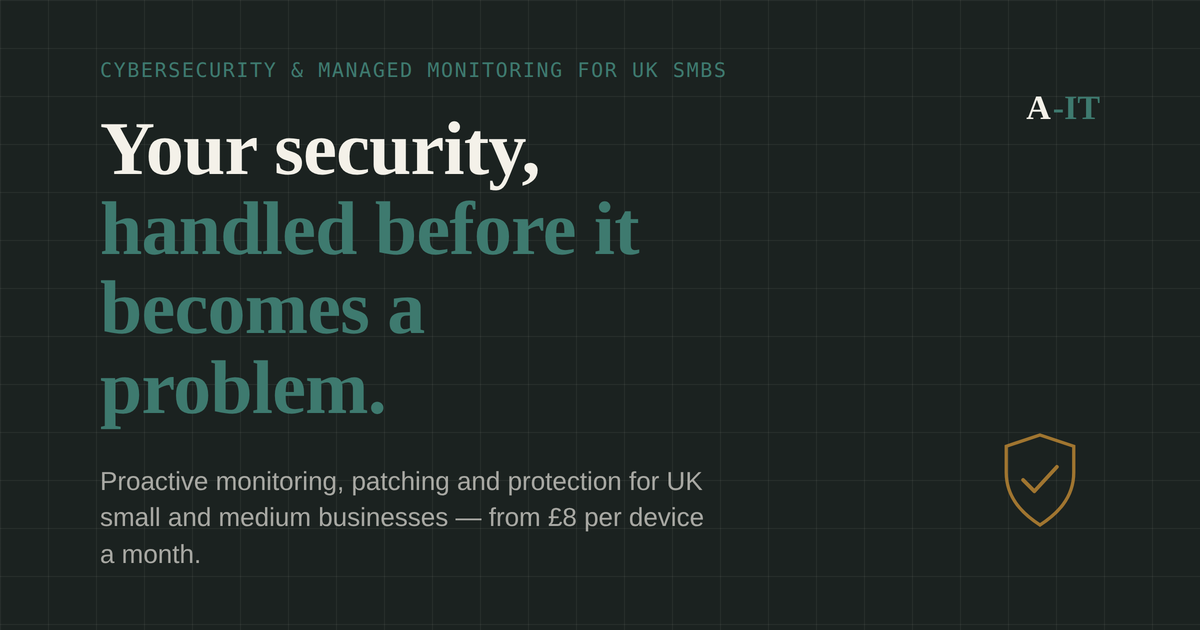
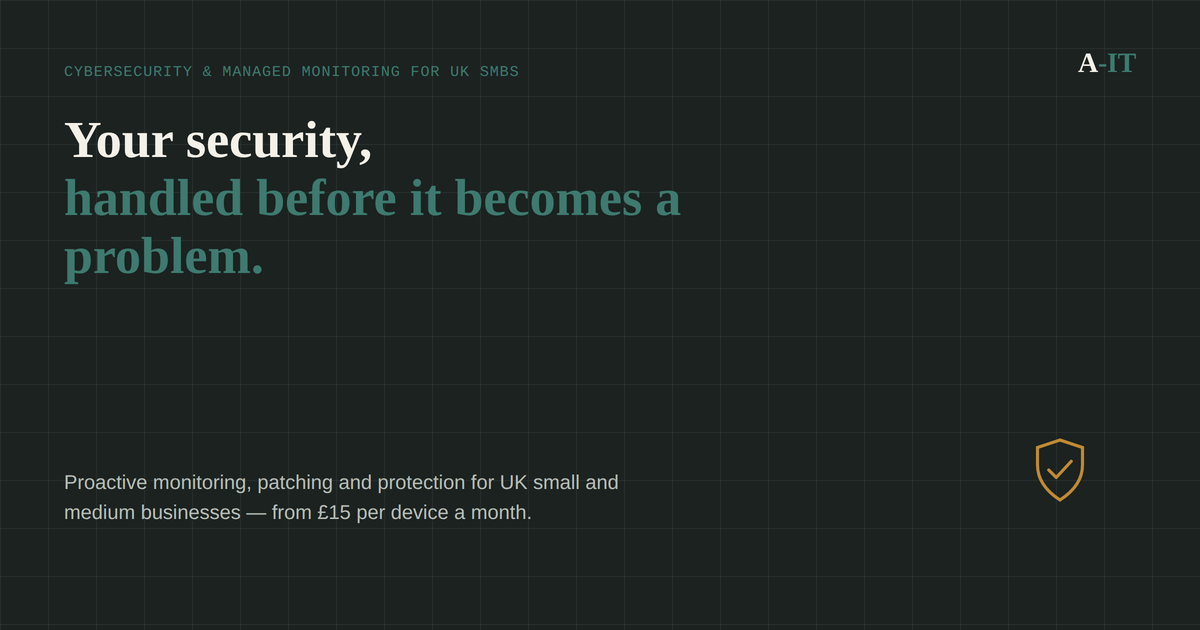
Retire Bronze, promote Gold to most-chosen, add Platinum tier
Structural pricing change:
- Removed Bronze entirely (its included features are now listed
  directly under Silver instead of via an "everything in Bronze"
  reference)
- Silver and Gold keep their existing price and feature set,
  unchanged
- Gold is now the recommended/"most chosen" tier instead of Silver
- Added Platinum (£25/device/month): everything in Gold, plus
  detailed monthly security reporting, phishing simulation and cyber
  awareness training, and priority security escalation

Since Bronze was the only tier without 24/7 monitoring, "24/7 on
Silver & Gold" language across Home/Services/meta tags is now "on
every plan" - there's no tier left without it. Rewrote the "not sure
which tier fits" guidance on the Pricing page to match Gold being
the default recommendation. PricingTable's column rendering is now
driven dynamically by TIERS/tier.recommended instead of hardcoded
bronze/silver/gold columns, so it no longer breaks when the tier
lineup changes. Regenerated the OG social preview image (previously
showed "£8 per device", now "£15") and fixed the same stale
Bronze/£8 copy baked into index.html's static meta tags for social
crawlers.

Claude-Session: https://claude.ai/code/session_01EaLkMhpdtrWRbBnCPcVyhp

diff --git a/src/lib/pricing.js b/src/lib/pricing.js
@@ -1,26 +1,14 @@
 export const TIERS = [
   {
-    id: 'bronze',
-    name: 'Bronze',
-    price: 8,
-    tagline: 'Core security hygiene, monitored during business hours.',
-    recommended: false,
-    features: [
-      'Device monitoring and alerting, business hours (Mon–Fri)',
-      'Security patching for Windows, macOS and common apps',
-      'Antivirus and endpoint protection, centrally managed',
-      'IT asset and licence inventory',
-      'Monthly patch and security report',
-    ],
-  },
-  {
     id: 'silver',
     name: 'Silver',
     price: 15,
-    tagline: '24/7 monitoring and management, not just office hours.',
-    recommended: true,
+    tagline: '24/7 monitoring and management, around the clock.',
+    recommended: false,
     features: [
-      'Everything in Bronze',
+      'Security patching for Windows, macOS and common apps',
+      'Antivirus and endpoint protection, centrally managed',
+      'IT asset and licence inventory',
       '24/7 monitored device management',
       '24/7 monitored cybersecurity (SOC-backed threat detection)',
       'Advanced endpoint detection and response (EDR)',
@@ -35,7 +23,7 @@ export const TIERS = [
     name: 'Gold',
     price: 18,
     tagline: 'Full cybersecurity cover, watched around the clock.',
-    recommended: false,
+    recommended: true,
     features: [
       'Everything in Silver',
       'Microsoft 365 / Google Workspace protection and backup',
@@ -44,43 +32,63 @@ export const TIERS = [
       'Annual cybersecurity posture assessment',
     ],
   },
+  {
+    id: 'platinum',
+    name: 'Platinum',
+    price: 25,
+    tagline: 'Everything in Gold, plus proactive awareness and escalation.',
+    recommended: false,
+    features: [
+      'Everything in Gold',
+      'Detailed security reporting every month',
+      'Phishing simulation and cyber awareness training',
+      'Priority security escalation',
+    ],
+  },
 ]
 
 export const FEATURE_GROUPS = [
   {
     group: 'Security fundamentals',
     rows: [
-      { label: 'Antivirus and endpoint protection', bronze: true, silver: true, gold: true },
-      { label: 'Security patch management', bronze: true, silver: true, gold: true },
-      { label: 'IT asset and licence inventory', bronze: true, silver: true, gold: true },
+      { label: 'Antivirus and endpoint protection', silver: true, gold: true, platinum: true },
+      { label: 'Security patch management', silver: true, gold: true, platinum: true },
+      { label: 'IT asset and licence inventory', silver: true, gold: true, platinum: true },
     ],
   },
   {
     group: 'Monitoring & management',
     rows: [
-      { label: 'Device monitoring and alerting, business hours', bronze: true, silver: true, gold: true },
-      { label: '24/7 monitored device management', bronze: false, silver: true, gold: true },
-      { label: 'Extended monitoring — servers, switches, Wi-Fi', bronze: false, silver: true, gold: true },
-      { label: 'Out-of-hours alerting for critical failures', bronze: false, silver: true, gold: true },
-      { label: 'Monthly patch and security report', bronze: true, silver: true, gold: true },
-      { label: 'Expanded reporting pack (device health, alerts)', bronze: false, silver: true, gold: true },
+      { label: '24/7 monitored device management', silver: true, gold: true, platinum: true },
+      { label: 'Extended monitoring — servers, switches, Wi-Fi', silver: true, gold: true, platinum: true },
+      { label: 'Out-of-hours alerting for critical failures', silver: true, gold: true, platinum: true },
+      { label: 'Monthly patch and security report', silver: true, gold: true, platinum: true },
+      { label: 'Expanded reporting pack (device health, alerts)', silver: true, gold: true, platinum: true },
     ],
   },
   {
     group: 'Cybersecurity',
     rows: [
-      { label: '24/7 monitored cybersecurity (SOC-backed)', bronze: false, silver: true, gold: true },
-      { label: 'Advanced endpoint detection and response (EDR)', bronze: false, silver: true, gold: true },
-      { label: 'Microsoft 365 / Google Workspace protection and backup', bronze: false, silver: false, gold: true },
-      { label: 'Annual cybersecurity posture assessment', bronze: false, silver: false, gold: true },
+      { label: '24/7 monitored cybersecurity (SOC-backed)', silver: true, gold: true, platinum: true },
+      { label: 'Advanced endpoint detection and response (EDR)', silver: true, gold: true, platinum: true },
+      { label: 'Microsoft 365 / Google Workspace protection and backup', silver: false, gold: true, platinum: true },
+      { label: 'Annual cybersecurity posture assessment', silver: false, gold: true, platinum: true },
     ],
   },
   {
     group: 'Backup & strategy',
     rows: [
-      { label: 'Monthly backup verification checks', bronze: false, silver: true, gold: true },
-      { label: 'Priority incident response', bronze: false, silver: false, gold: true, note: '[PLACEHOLDER: exact response-time commitment]' },
-      { label: 'Quarterly strategic security review', bronze: false, silver: false, gold: true },
+      { label: 'Monthly backup verification checks', silver: true, gold: true, platinum: true },
+      { label: 'Priority incident response', silver: false, gold: true, platinum: true, note: '[PLACEHOLDER: exact response-time commitment]' },
+      { label: 'Quarterly strategic security review', silver: false, gold: true, platinum: true },
+    ],
+  },
+  {
+    group: 'Security awareness & reporting',
+    rows: [
+      { label: 'Detailed security reporting every month', silver: false, gold: false, platinum: true },
+      { label: 'Phishing simulation and cyber awareness training', silver: false, gold: false, platinum: true },
+      { label: 'Priority security escalation', silver: false, gold: false, platinum: true },
     ],
   },
 ]

diff --git a/src/pages/Services.jsx b/src/pages/Services.jsx
@@ -67,19 +67,19 @@ const SECTIONS = [
       'Managed endpoint protection and patching across Windows, macOS and common third-party apps',
       'Email security — phishing and spoofing filtering, with SPF, DKIM and DMARC configured properly',
       'Multi-factor authentication rolled out across email, cloud storage and other key systems',
-      '24/7 monitored threat detection and endpoint detection & response (EDR), with a named response plan, not just an alert nobody reads (Silver & Gold)',
+      '24/7 monitored threat detection and endpoint detection & response (EDR), with a named response plan, not just an alert nobody reads',
     ],
   },
   {
     id: 'monitoring',
     icon: IconRadar,
     eyebrow: '02 — Monitoring & management',
-    title: 'Round-the-clock on Silver and Gold. Never guesswork.',
-    lead: 'A dying hard drive, a failed backup job, a server quietly running out of disk space — the failures that cause real downtime almost always give warning first. Bronze covers monitoring during business hours; Silver and Gold watch around the clock.',
+    title: 'Round-the-clock on every plan. Never guesswork.',
+    lead: 'A dying hard drive, a failed backup job, a server quietly running out of disk space — the failures that cause real downtime almost always give warning first. Every plan watches around the clock, not just business hours.',
     points: [
-      'Devices, servers, switches and Wi-Fi access points monitored 24/7 on Silver and Gold, business hours on Bronze',
+      'Devices, servers, switches and Wi-Fi access points monitored 24/7',
       'Thresholds tuned to catch real problems early — failing disks, memory pressure, unusual login activity',
-      'Out-of-hours alerting that reaches a person, with escalation if the first alert isn’t acknowledged (Silver & Gold)',
+      'Out-of-hours alerting that reaches a person, with escalation if the first alert isn’t acknowledged',
       'Monthly reporting so you can see device health and patch status without having to ask',
     ],
   },
@@ -88,11 +88,11 @@ const SECTIONS = [
     icon: IconCloud,
     eyebrow: '03 — Cloud & backup',
     title: 'Backups that are proven to work, not just scheduled.',
-    lead: 'A backup you’ve never tested is a guess. Silver and Gold verify your backups are actually working, not just scheduled — and on Gold we go further, protecting and backing up your Microsoft 365 or Google Workspace data directly, not just checking someone else’s backup exists.',
+    lead: 'A backup you’ve never tested is a guess. Every plan verifies your backups are actually working, not just scheduled — and on Gold and Platinum we go further, protecting and backing up your Microsoft 365 or Google Workspace data directly, not just checking someone else’s backup exists.',
     points: [
       'Microsoft 365 or Google Workspace administration — mailboxes, licensing, shared drives, conditional access',
-      'Microsoft 365 / Google Workspace data protection and backup, so a deleted mailbox or file isn’t gone for good (Gold)',
-      'Backup verification for servers and endpoints, with scheduled test restores logged and reported (Silver & Gold)',
+      'Microsoft 365 / Google Workspace data protection and backup, so a deleted mailbox or file isn’t gone for good (Gold & Platinum)',
+      'Backup verification for servers and endpoints, with scheduled test restores logged and reported',
       'A written recovery plan for what happens if a device, account or server is lost or compromised',
     ],
   },
@@ -114,7 +114,7 @@ export default function Services() {
           </h1>
           <p className="mt-5 max-w-[58ch] text-lg leading-relaxed text-ink/75">
             Three areas, all included across our tiers to different depths —
-            see the <Link className="link-underline text-petrol" to="/pricing">pricing comparison</Link> for exactly what's in Bronze, Silver and Gold.
+            see the <Link className="link-underline text-petrol" to="/pricing">pricing comparison</Link> for exactly what's in Silver, Gold and Platinum.
           </p>
         </div>
       </section>
@@ -177,8 +177,8 @@ export default function Services() {
               </h2>
               <p className="mt-3 max-w-[62ch] text-ink/75">
                 We're a security-first provider, not a helpdesk by default —
-                general day-to-day IT support isn't included in Bronze,
-                Silver or Gold. Two ways to add it: pay-as-you-go break-fix
+                general day-to-day IT support isn't included in Silver,
+                Gold or Platinum. Two ways to add it: pay-as-you-go break-fix
                 callouts from £60/hour, or Premium SLA ticket support from
                 £10 per device a month (Mon–Fri, 8am–5pm), on top of any
                 tier.

diff --git a/src/pages/Home.jsx b/src/pages/Home.jsx
@@ -6,7 +6,7 @@ import { Link } from 'react-router-dom'
 const TRUST_SIGNALS = [
   { label: 'UK-based security team', detail: 'No outsourced SOC' },
   { label: 'Fixed price per device', detail: 'One line on the invoice' },
-  { label: '24/7 monitoring on Silver & Gold', detail: 'Not just business hours' },
+  { label: '24/7 monitoring on every plan', detail: 'Not just business hours' },
   { label: 'Fast onboarding', detail: '1–10 working days to full coverage' },
 ]
 
@@ -20,13 +20,13 @@ const SERVICES = [
   {
     n: '02',
     title: 'Monitoring & management',
-    body: 'Devices, servers and network kit watched around the clock on Silver and Gold, with alerts that reach a person before your team notices anything wrong.',
+    body: 'Devices, servers and network kit watched around the clock on every plan, with alerts that reach a person before your team notices anything wrong.',
     to: '/services#monitoring',
   },
   {
     n: '03',
     title: 'Cloud & backup',
-    body: 'Backup verification on Silver and Gold, plus Microsoft 365 or Google Workspace data protection and backup on Gold — so a lost laptop or deleted mailbox isn’t a lost business.',
+    body: 'Backup verification on every plan, plus Microsoft 365 or Google Workspace data protection and backup on Gold and Platinum — so a lost laptop or deleted mailbox isn’t a lost business.',
     to: '/services#cloud-backup',
   },
 ]
@@ -34,7 +34,7 @@ const SERVICES = [
 export default function Home() {
   return (
     <>
-      <Seo description="A-IT is a UK managed cybersecurity and monitoring provider for small and medium businesses. Proactive protection, patching and 24/7 monitoring on Silver and Gold, from £8 per device per month." />
+      <Seo description="A-IT is a UK managed cybersecurity and monitoring provider for small and medium businesses. Proactive protection, patching and 24/7 monitoring on every plan, from £15 per device per month." />
 
       {/* Hero — asymmetric, off-center split */}
       <section className="relative overflow-hidden border-b border-stone bg-paper-dim">
@@ -69,7 +69,7 @@ export default function Home() {
               </div>
               <ol className="divide-y divide-paper/10">
                 {[
-                  ['01', 'Monitor', 'Devices and email watched continuously — 24/7 on Silver and Gold'],
+                  ['01', 'Monitor', 'Devices and email watched continuously — 24/7 on every plan'],
                   ['02', 'Detect', 'Alerts triaged the moment something looks wrong, day or night'],
                   ['03', 'Respond', 'A named engineer acts on confirmed threats, not just flags them'],
                   ['04', 'Report', 'A plain-English summary of what happened and what changed'],

diff --git a/index.html b/index.html
@@ -7,7 +7,7 @@
     <title>A-IT — Managed Cybersecurity &amp; Monitoring for UK Businesses</title>
     <meta
       name="description"
-      content="A-IT is a UK managed cybersecurity and monitoring provider for small and medium businesses. Proactive protection, patching and 24/7 monitoring on Silver and Gold, from £8 per device per month."
+      content="A-IT is a UK managed cybersecurity and monitoring provider for small and medium businesses. Proactive protection, patching and 24/7 monitoring on every plan, from £15 per device per month."
     />
 
     <!-- PLACEHOLDER: replace a-it.example with the real domain once live,
@@ -28,7 +28,7 @@
     <meta property="og:title" content="A-IT — Managed Cybersecurity &amp; Monitoring for UK Businesses" />
     <meta
       property="og:description"
-      content="A-IT is a UK managed cybersecurity and monitoring provider for small and medium businesses. Proactive protection, patching and 24/7 monitoring on Silver and Gold, from £8 per device per month."
+      content="A-IT is a UK managed cybersecurity and monitoring provider for small and medium businesses. Proactive protection, patching and 24/7 monitoring on every plan, from £15 per device per month."
     />
     <meta property="og:image" content="https://a-it.example/og-image.png" />
     <meta property="og:image:width" content="1200" />
@@ -40,7 +40,7 @@
     <meta name="twitter:title" content="A-IT — Managed Cybersecurity &amp; Monitoring for UK Businesses" />
     <meta
       name="twitter:description"
-      content="A-IT is a UK managed cybersecurity and monitoring provider for small and medium businesses. Proactive protection, patching and 24/7 monitoring on Silver and Gold, from £8 per device per month."
+      content="A-IT is a UK managed cybersecurity and monitoring provider for small and medium businesses. Proactive protection, patching and 24/7 monitoring on every plan, from £15 per device per month."
     />
     <meta name="twitter:image" content="https://a-it.example/og-image.png" />
     <meta name="twitter:image:alt" content="A-IT — managed cybersecurity and monitoring for UK small and medium businesses" />

diff --git a/src/pages/Pricing.jsx b/src/pages/Pricing.jsx
@@ -9,7 +9,7 @@ export default function Pricing() {
     <>
       <Seo
         title="Pricing"
-        description="Simple per-device pricing for managed cybersecurity and monitoring: Bronze £8, Silver £15, Gold £18 per device per month. 24/7 monitoring on Silver and Gold — see what's included and estimate your cost."
+        description="Simple per-device pricing for managed cybersecurity and monitoring: Silver £15, Gold £18, Platinum £25 per device per month. 24/7 monitoring on every plan — see what's included and estimate your cost."
       />
 
       <section className="border-b border-stone bg-paper-dim py-16 md:py-24">
@@ -47,8 +47,8 @@ export default function Pricing() {
             Compare what's included
           </h2>
           <p className="mt-2 max-w-[56ch] text-ink/70">
-            Each tier builds on the one before it — Silver includes
-            everything in Bronze, Gold includes everything in Silver.
+            Each tier builds on the one before it — Gold includes
+            everything in Silver, Platinum includes everything in Gold.
           </p>
           <div className="mt-8">
             <PricingTable />
@@ -95,9 +95,13 @@ export default function Pricing() {
               Not sure which tier fits?
             </h2>
             <p className="mt-3 max-w-[48ch] text-paper/70">
-              Most businesses without a compliance requirement start on
-              Silver. If you handle client card data, health records or
-              operate in a regulated sector, Gold is worth the conversation.
+              Most clients land on Gold — full 24/7 cybersecurity cover,
+              Microsoft 365 or Google Workspace protection, and a named
+              contact for quarterly reviews. Silver suits a leaner setup
+              without the strategic reviews. Platinum is worth the
+              conversation if you want staff phishing simulation and
+              awareness training built in, or handle particularly
+              sensitive data.
             </p>
             <div className="mt-6">
               <Button to="/contact" variant="accent">

diff --git a/src/components/PricingTable.jsx b/src/components/PricingTable.jsx
@@ -34,7 +34,7 @@ export default function PricingTable() {
       </p>
       <div className="overflow-x-auto">
         <table className="w-full min-w-[640px] border-collapse text-left">
-        <caption className="sr-only">Feature comparison across Bronze, Silver and Gold plans</caption>
+        <caption className="sr-only">Feature comparison across Silver, Gold and Platinum plans</caption>
         <thead>
           <tr>
             <th scope="col" className="w-[38%] pb-6 pr-4 align-bottom font-body text-sm font-normal text-slate">
@@ -65,7 +65,7 @@ export default function PricingTable() {
               <tr className="border-t border-stone">
                 <th
                   scope="colgroup"
-                  colSpan={4}
+                  colSpan={TIERS.length + 1}
                   className="pb-2 pt-6 text-left font-mono text-xs uppercase tracking-wideish text-brass-dark"
                 >
                   {group.group}
@@ -79,15 +79,14 @@ export default function PricingTable() {
                       <span className="ml-2 text-xs text-brass-dark">{row.note}</span>
                     )}
                   </td>
-                  <td className="py-3 text-center">
-                    <Check on={row.bronze} />
-                  </td>
-                  <td className="bg-petrol/[0.06] py-3 text-center">
-                    <Check on={row.silver} />
-                  </td>
-                  <td className="py-3 text-center">
-                    <Check on={row.gold} />
-                  </td>
+                  {TIERS.map((tier) => (
+                    <td
+                      key={tier.id}
+                      className={`py-3 text-center ${tier.recommended ? 'bg-petrol/[0.06]' : ''}`}
+                    >
+                      <Check on={row[tier.id]} />
+                    </td>
+                  ))}
                 </tr>
               ))}
             </Fragment>
